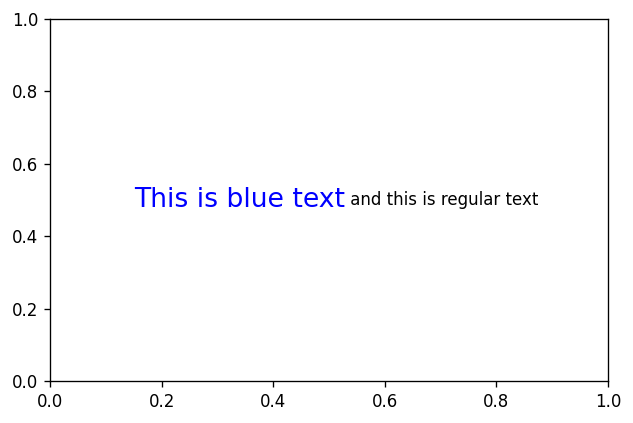
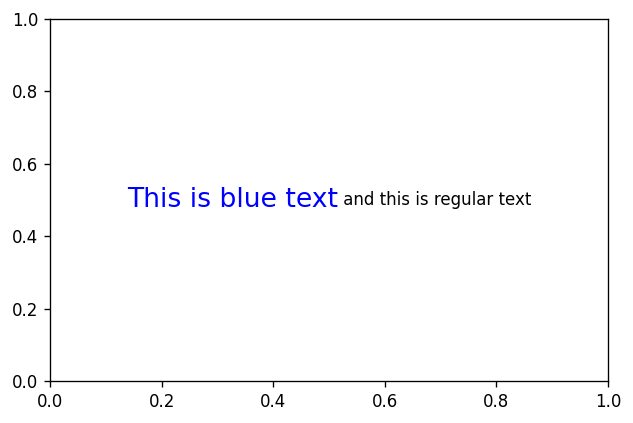
More documentation. Functional usage section is done

Changed region(s): [[0.2101, 0.4303, 0.8705, 0.4917]]

diff --git a/flexitext/flexitext.py b/flexitext/flexitext.py
@@ -12,7 +12,7 @@ class FlexiText:
     Parameters
     ----------
 
-    texts: tuple of flexitext.Text instances
+    texts: tuple or list of flexitext.Text instances
         These objects represent the text together with their styles.
     """
 
@@ -43,18 +43,18 @@ class FlexiText:
             The vertical position to place the text. By default, this is in axes fraction
             coordinates.
         ha: str
-            Horizontal alignment. Must be one of 'center', 'right', or 'left'. Defaults to 'left'.
+            Horizontal alignment. Must be one of `'center'`, `'right'`, or `'left'`.
         va: str
-            Horizontal alignment. Must be one of 'center', 'top', or 'bottom'. Defaults to 'center'.
+            Horizontal alignment. Must be one of `'center'`, `'top'`, or `'bottom'`.
         ma: str
             Alignment for multiline texts. The layout of the bounding box of all the lines is
             determined by the `ha` and `va` properties. This property controls the alignment of the
             text lines within that box.
         xycoords: str
-            The coordinate system for `x` and `y`.
-        ax: matplotlib.axis.Axis
-            Matplotlib axis object. Defaults to `None`, which means the Axis is obtained with
-            `plt.gca()`
+            The coordinate system for `x` and `y`. Must be one of `'axes fraction'` or
+            `'figure fraction'`.
+        ax: matplotlib.axes.Axes
+            Matplotlib `Axes`. The default value means the `Axes` is obtained with `plt.gca()`
 
         Returns
         -------
@@ -109,21 +109,19 @@ def flexitext(x, y, s, ha="left", va="center", ma="left", xycoords="axes fractio
     y: float
         The vertical position to place the text. By default, this is in axes fraction
         coordinates.
-    s: str
-        The formatted text to draw.
     ha: str
-        Horizontal alignment. Must be one of 'center', 'right', or 'left'. Defaults to 'left'.
+        Horizontal alignment. Must be one of 'center', 'right', or 'left'.
     va: str
-        Horizontal alignment. Must be one of 'center', 'top', or 'bottom'. Defaults to 'center'.
+        Horizontal alignment. Must be one of 'center', 'top', or 'bottom'.
     ma: str
         Alignment for multiline texts. The layout of the bounding box of all the lines is
         determined by the `ha` and `va` properties. This property controls the alignment of the
         text lines within that box.
     xycoords: str
-        The coordinate system for `x` and `y`.
-    ax: matplotlib.axis.Axis
-        Matplotlib axis object. Defaults to `None`, which means the Axis is obtained with
-        `plt.gca()`
+        The coordinate system for `x` and `y`. Must be one of `'axes fraction'` or
+        `'figure fraction'`.
+    ax: matplotlib.axes.Axes
+        Matplotlib `Axes`. The default value means the `Axes` is obtained with `plt.gca()`
 
     Returns
     -------

diff --git a/docsite/docs/usage/functional.md b/docsite/docs/usage/functional.md
@@ -17,30 +17,30 @@ mpl.rcParams["figure.dpi"] = 120
 
 ## Formatted strings
 
-Albeit being inspired on [ggtext](https://wilkelab.org/ggtext/), Flexitext does not use HTML, CSS, or Markdown to specify text styles. On the contrary, it implements a tag-based styling that looks similar to HTML tags, but is not exactly like HTML. In Flexitext, formatted text consists of three components:
+Albeit being inspired on [ggtext](https://wilkelab.org/ggtext/), Flexitext does not use HTML, CSS, or Markdown to specify text styles. On the contrary, it implements a tag-based styling that looks similar to HTML tags, but is not exactly like HTML. These formatted strings consist of three components:
 
 * An opening tag that defines the styles to apply.
 * The text to be styled.
 * A closing tag, indicating the extent to which the styles in the opening tag apply.
 
-Let's see an example
+Let's see an example:
 
 ```python
 "<color:blue, size:16>This is blue text</> and this is regular text"
 ```
 
-* `<color:blue, size:16>` is the opening tag. Styles are key-value pairs separated by `:`. Multiple styles are separated by commas `,`.
-* `This is blue text` is the text block. This text is going to drawn using a font size of 16 and a blue color.
+* `<color:blue, size:16>` is the opening tag. Styles are key-value pairs separated by `:`. Multiple styles are separated by commas.
+* `This is blue text` is the text block. This text is going to be drawn using a font size of 16 and blue color.
 * `</>` is the closing tag. Only the text within the opening and the closing tags is formatted.
 
-Then we have ` and this is regular text`. This is going to be drawn using the default style because it is not contained within any formatting tags.
+And finally we have ` and this is regular text`. This is going to be drawn using the default style because it is not contained within any formatting tags.
 
 
 ```python
 fig, ax = plt.subplots()
 
 text = "<color:blue, size:16>This is blue text</> and this is regular text"
-flexitext(0.15, 0.5, text);
+flexitext(0.5, 0.5, text, ha="center");
 ```
 
 
@@ -49,14 +49,41 @@ flexitext(0.15, 0.5, text);
     
 
 
-## Examples
-
-Flexitext supports [a variety](https://tomicapretto.github.io/flexitext/#notes) of styles. You can change color, transparency, font, style, weight, etc. The following examples showcase how to customize text in different ways using `flexitext()` and formatted strings.
+Additionally, styles can be nested. If you define a styled block within the text component of an other styled block, the inner is formatted according to the combination of both styles. For example:
 
 
 ```python
-colors = ["#ff5c67", "#fe7974", "#ffb382", "#c5e099", "#64a5ff"]
+fig, ax = plt.subplots()
+
+text = "<color:blue, size:16>Everything is blue, but <weight:bold>this is also bold</></>"
+flexitext(0.5, 0.5, text, ha="center");
 ```
+
+
+    
+![png](functional_files/functional_5_0.png)
+    
+
+
+Notice the innermost style overrides settings from the outer one.
+
+
+```python
+fig, ax = plt.subplots()
+
+text = "<color:blue, weight:bold>Everything is bold, <color:red>but this is red</></>"
+flexitext(0.5, 0.5, text, ha="center");
+```
+
+
+    
+![png](functional_files/functional_7_0.png)
+    
+
+
+## More examples
+
+Flexitext supports [a variety](https://tomicapretto.github.io/flexitext/#notes) of styles. You can change color, transparency, font, style, weight, etc. The following examples showcase how to customize text in different ways using `flexitext()` and formatted strings.
 
 
 ```python
@@ -88,7 +115,7 @@ flexitext(
 
 text = (
     "<size:18, name:Lobster Two>Align text as "
-    + "<color:#c5e099, weight:bold, name:Special Elite>usual</></>"
+    + "<color:#ffb382, weight:bold, name:Special Elite>usual</></>"
 )
 
 flexitext(
@@ -101,7 +128,7 @@ flexitext(
 
 
     
-![png](functional_files/functional_6_0.png)
+![png](functional_files/functional_9_0.png)
     
 
 
@@ -152,6 +179,6 @@ flexitext(1, 0, text, ha="right", ma="right", va="bottom");
 
 
     
-![png](functional_files/functional_7_0.png)
+![png](functional_files/functional_10_0.png)
     
 
